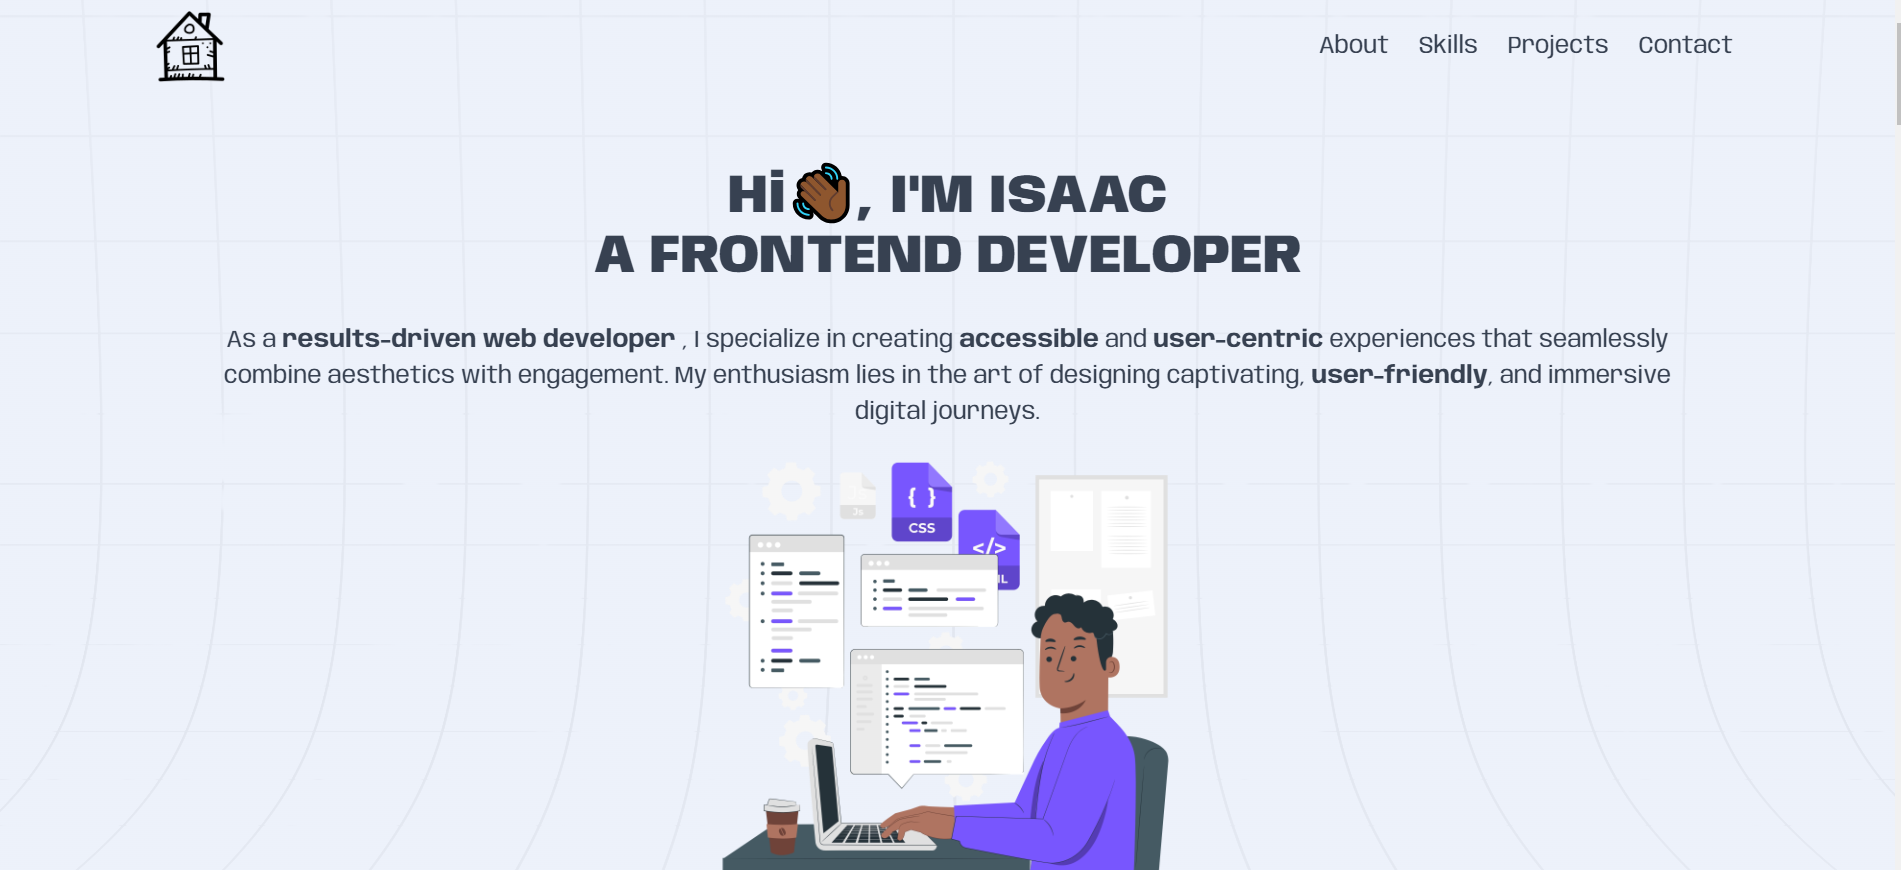
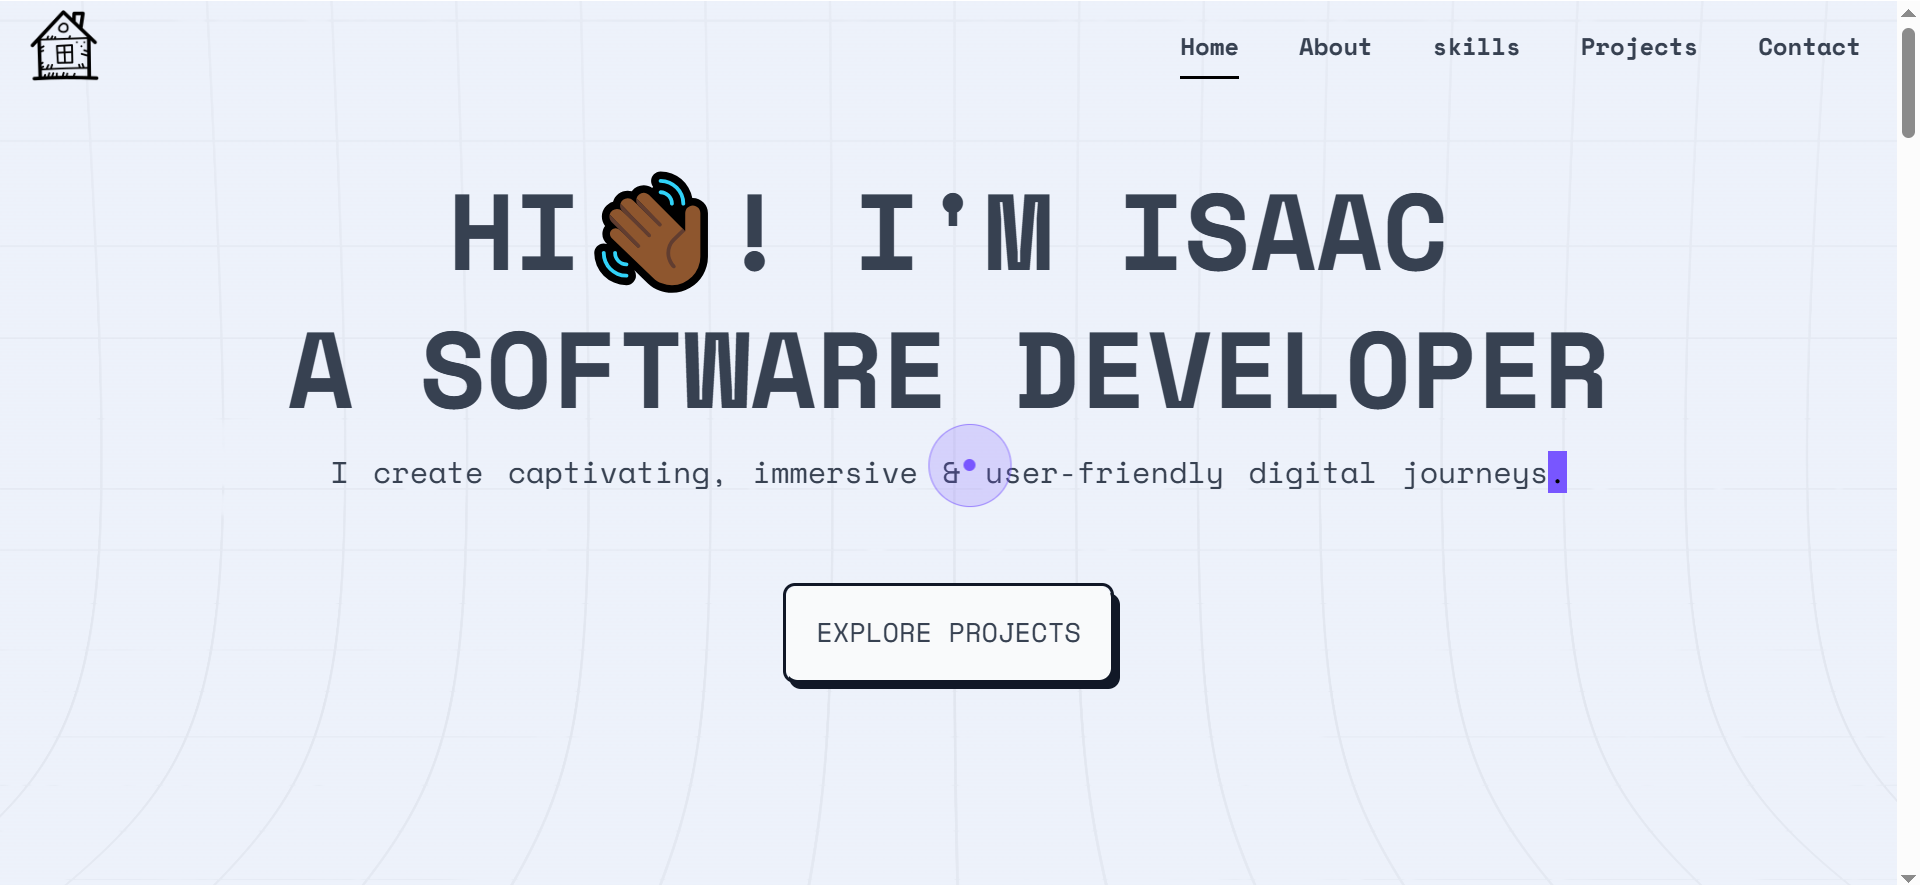
updatea

diff --git a/app/components/Navbar.jsx b/app/components/Navbar.jsx
@@ -6,7 +6,7 @@ import dark from "/public/dark.png";
 import menu from "/public/menu.png";
 import close from "/public/close.png";
 import { Dialog, Transition } from "@headlessui/react";
-import { Fragment, useState } from "react";
+import { Fragment, useEffect, useState } from "react";
 import NavLink from "./NavLink";
 
 export default function Navbar() {
@@ -20,9 +20,29 @@ export default function Navbar() {
     setIsOpen(true);
   }
 
+  const [isScrolled, setIsScrolled] = useState(false);
+
+  // Add scroll event listener
+  useEffect(() => {
+    const handleScroll = () => {
+      if (window.scrollY > 50) {
+        setIsScrolled(true);
+      } else {
+        setIsScrolled(false);
+      }
+    };
+
+    window.addEventListener("scroll", handleScroll);
+    return () => window.removeEventListener("scroll", handleScroll);
+  }, []);
+
   return (
-    <nav>
-      <div>
+    <nav
+      className={`sticky top-0 z-50 transition-all duration-300 flex justify-between items-center px-6 pb-4 md:px-3 md:pb-2 w-full pt-0 ${
+        isScrolled ? "bg-white/70 backdrop-blur-lg" : "bg-transparent"
+      }`}
+    >
+      <div className="hidden lg:block">
         <Link href="/" className="">
           <Image
             src={home}
@@ -34,91 +54,35 @@ export default function Navbar() {
           />
         </Link>
       </div>
-      <div className="gap-6 items-center px-6 md:px-3 hidden md:flex w-screen md:w-fit justify-between   ">
-        <div className="flex gap-5 items-end justify-end ">
+
+      <div className="lg:gap-6 gap-0 items-center px-0 md:px-3 py-3 flex  justify-between w-full lg:w-fit">
+        <div className="flex gap-5 lg:gap-10 items-center lg:items-end justify-end ">
+          <NavLink className="flex md:flex" href="/">
+            <div className="text-gray-700 text-sm lg:text-base font-normal lg:font-bold">
+              Home
+            </div>
+          </NavLink>
           <NavLink className="flex md:flex" href="/about">
-            <span className="relative z-10 block px-1 md:px-3 py-3 overflow-hidden font-medium leading-tight text-gray-700 transition-colors duration-300 ease-out border-2 border-gray-700 rounded-lg group-hover:text-white">
-              <span className="absolute inset-0 w-full h-full px-5 py-3 rounded-lg bg-gray-50"></span>
-              <span className="absolute left-0 w-48 h-48 -ml-2 transition-all duration-300 origin-top-right -rotate-90 -translate-x-full translate-y-12 bg-primary group-hover:-rotate-180 ease"></span>
-              <span className="relative text-gray-700"> About</span>
-            </span>
-            <span
-              className="absolute bottom-0 right-0 w-full h-12 -mb-1 -mr-1 transition-all duration-200 ease-linear bg-gray-700 rounded-lg group-hover:mb-0 group-hover:mr-0"
-              data-rounded="rounded-lg"
-            ></span>
+            <div className="text-gray-700 text-sm lg:text-base font-normal lg:font-bold">
+              About
+            </div>
           </NavLink>
           <NavLink className=" md:flex" href="/#skills">
-            <span className="relative z-10 block px-1 md:px-3 py-3 overflow-hidden font-medium leading-tight text-gray-700 transition-colors duration-300 ease-out border-2 border-gray-700 rounded-lg group-hover:text-white">
-              <span className="absolute inset-0 w-full h-full px-5 py-3 rounded-lg bg-gray-50"></span>
-              <span className="absolute left-0 w-48 h-48 -ml-2 transition-all duration-300 origin-top-right -rotate-90 -translate-x-full translate-y-12 bg-primary group-hover:-rotate-180 ease"></span>
-              <span className="relative text-gray-700"> Skills</span>
-            </span>
-            <span
-              className="absolute bottom-0 right-0 w-full h-12 -mb-1 -mr-1 transition-all duration-200 ease-linear bg-gray-700 rounded-lg group-hover:mb-0 group-hover:mr-0"
-              data-rounded="rounded-lg"
-            ></span>
+            <div className="text-gray-700 text-sm lg:text-base font-normal lg:font-bold">
+              skills
+            </div>
           </NavLink>
           <NavLink className=" md:flex" href="/#projects">
-            <span className="relative z-10 block  px-1 md:px-3 py-3 overflow-hidden font-medium leading-tight text-gray-700 transition-colors duration-300 ease-out border-2 border-gray-700 rounded-lg group-hover:text-white">
-              <span className="absolute inset-0 w-full h-full px-5 py-3 rounded-lg bg-gray-50"></span>
-              <span className="absolute left-0 w-48 h-48 -ml-2 transition-all duration-300 origin-top-right -rotate-90 -translate-x-full translate-y-12 bg-primary group-hover:-rotate-180 ease"></span>
-              <span className="relative text-gray-700"> Projects</span>
-            </span>
-            <span
-              className="absolute bottom-0 right-0 w-full h-12 -mb-1 -mr-1 transition-all duration-200 ease-linear bg-gray-700 rounded-lg group-hover:mb-0 group-hover:mr-0"
-              data-rounded="rounded-lg"
-            ></span>
+            <div className="text-gray-700 text-sm lg:text-base font-normal lg:font-bold">
+              Projects
+            </div>
           </NavLink>
           <NavLink className=" md:flex" href="/#contact">
-            <span className="relative z-10 block  px-1 md:px-3 py-3 overflow-hidden font-medium leading-tight text-gray-700 transition-colors duration-300 ease-out border-2 border-gray-700 rounded-lg group-hover:text-white">
-              <span className="absolute inset-0 w-full h-full px-5 py-3 rounded-lg bg-gray-50"></span>
-              <span className="absolute left-0 w-48 h-48 -ml-2 transition-all duration-300 origin-top-right -rotate-90 -translate-x-full translate-y-12 bg-primary group-hover:-rotate-180 ease"></span>
-              <span className="relative text-gray-700"> Contact</span>
-            </span>
-            <span
-              className="absolute bottom-0 right-0 w-full h-12 -mb-1 -mr-1 transition-all duration-200 ease-linear bg-gray-700 rounded-lg group-hover:mb-0 group-hover:mr-0"
-              data-rounded="rounded-lg"
-            ></span>
+            <div className="text-gray-700 text-sm lg:text-base font-normal lg:font-bold">
+              Contact
+            </div>
           </NavLink>
         </div>
-
-        {/* <div>
-          <Image
-            src={dark}
-            alt="dark mode"
-            width={30}
-            height={30}
-            quality={100}
-            style={{ cursor: 'pointer' }}
-          />
-        </div> */}
-      </div>
-      <div className="gap-6 items-center px-6 md:px-3 flex  justify-between md:hidden   ">
-        <div className="flex gap-5 items-end justify-end ">
-          <NavLink className="flex md:flex" href="/about">
-            <div className="text-gray-700 font-normal">About</div>
-          </NavLink>
-          <NavLink className=" md:flex" href="/#skills">
-            <div className="text-gray-700 font-normal">skills</div>
-          </NavLink>
-          <NavLink className=" md:flex" href="/#projects">
-            <div className="text-gray-700 font-normal">Projects</div>
-          </NavLink>
-          <NavLink className=" md:flex" href="/#contact">
-            <div className="text-gray-700 font-normal">Contact</div>
-          </NavLink>
-        </div>
-
-        {/* <div>
-          <Image
-            src={dark}
-            alt="dark mode"
-            width={30}
-            height={30}
-            quality={100}
-            style={{ cursor: 'pointer' }}
-          />
-        </div> */}
       </div>
     </nav>
   );

diff --git a/app/components/Projects.jsx b/app/components/Projects.jsx
@@ -3,11 +3,8 @@ import React, { useEffect, useState, Fragment } from "react";
 import adresstracker from "/public/adresstracker.png";
 import moviebox from "/public/moviebox2.gif";
 import taskwise from "/public/Taskwise.gif";
-import carddetails from "/public/carddetails.png";
-import advicegenerator from "/public/advicegenerator.png";
 import expressline from "/public/expressline.gif";
 import ideafundrsc from "/public/ideafundrsc.gif";
-import portfolio from "/public/portfolio.gif";
 import wristy from "/public/wristy.gif";
 import forward from "/public/forward.gif";
 import back from "/public/back.png";
@@ -116,36 +113,6 @@ export default function Projects() {
       details: "Get live info of any IP Address.",
       skills: ["React", "Styled-Components", "Geo-location", "JavaScript"],
     },
-    // {
-    //   name: "Portfolio",
-    //   link: "https://isaacanyim-iota.vercel.app/",
-    //   github: "https://github.com/CreatorLZ/Portfolio",
-    //   description: "My portfolio website. slick , fast and beautiful",
-    //   image: portfolio,
-    //   details: "This is the real whats up",
-    //   skills: ["Next.js", "Tailwind", "Framer", "JavaScript"],
-    // },
-    // {
-    //   name: "Advice Generator",
-    //   link: "https://advice-generator-nine-beta.vercel.app/",
-    //   github: "https://github.com/CreatorLZ/advice-generator",
-    //   description:
-    //     "An app that generates freindly, hilarious, simple, complex, whatever... just name it, advice snippets to brighten your day!.",
-    //   image: advicegenerator,
-    //   details: "Get random advice.",
-    //   skills: ["React", "Adviceslip API", "Styled-components", "JavaScript"],
-    // },
-    // {
-    //   name: "Card Details",
-    //   link: "https://interactive-form-eight.vercel.app/",
-    //   github: "https://github.com/CreatorLZ/Interactive_form",
-    //   description:
-    //     "This Case study demonstrates a modern implementation of a user-centric interface for recording card details for online transactions.",
-    //   image: carddetails,
-    //   details:
-    //     "A modern way of recording customers card details for online payment.",
-    //   skills: ["React", "Styled-components", "JavaScript"],
-    // },
   ];
 
   const handleClick = (index) => {

diff --git a/app/components/Skills.jsx b/app/components/Skills.jsx
@@ -74,16 +74,16 @@ export default function Skills() {
             key={index}
             className="relative w-full md:w-72 h-48 border border-gray-400 items-center justify-center flex flex-col text-center "
           >
-            <div className="absolute top-0 left-0 flex items-center justify-center w-6 h-6 text-black ml-[-12px] mt-[-15px] text-5xl font-light">
+            <div className="absolute top-0 left-0 flex items-center justify-center w-6 h-6 text-black ml-[-12px] mt-[-13px] text-2xl font-light">
               +
             </div>
-            <div className="absolute top-0 right-0 flex items-center justify-center w-6 h-6 text-black mr-[-13px] mt-[-15px] text-5xl font-light">
+            <div className="absolute top-0 right-0 flex items-center justify-center w-6 h-6 text-black mr-[-13px] mt-[-13px] text-2xl font-light">
               +
             </div>
-            <div className="absolute bottom-0 left-0 flex items-center justify-center w-6 h-6 text-black ml-[-11px] mb-[-10px] text-5xl font-light">
+            <div className="absolute bottom-0 left-0 flex items-center justify-center w-6 h-6 text-black ml-[-11px] mb-[-10px] text-2xl font-light">
               +
             </div>
-            <div className="absolute bottom-0 right-0 flex items-center justify-center w-6 h-6 text-black mr-[-11px] mb-[-10px] text-5xl font-light">
+            <div className="absolute bottom-0 right-0 flex items-center justify-center w-6 h-6 text-black mr-[-11px] mb-[-10px] text-2xl font-light">
               +
             </div>
             <h3 className="font-bold text-3xl ">{skill.name}</h3>

diff --git a/app/layout.jsx b/app/layout.jsx
@@ -1,4 +1,4 @@
-import { Anybody, Inter, Poppins } from "next/font/google";
+import { Anybody, Inter, Poppins, Space_Mono } from "next/font/google";
 import "./globals.css";
 import { Analytics } from "@vercel/analytics/react";
 // Components
@@ -7,6 +7,11 @@ import Footer from "./components/Footer";
 import MouseTracker from "./components/MouseTracker";
 
 const anybody = Anybody({ subsets: ["latin"], variable: "--font-anybody" });
+const spaceMono = Space_Mono({
+  subsets: ["latin"],
+  weight: ["400", "700"],
+  variable: "--font-space-mono",
+});
 
 // Metadata configuration
 export const metadata = {
@@ -94,9 +99,12 @@ export default function RootLayout({ children }) {
         <meta name="twitter:image" content={metadata.twitter.image} />
         <meta name="theme-color" content={themeColor} />
         <meta name="viewport" content="width=device-width, initial-scale=1.0" />
+        {/* Favicon links */}
         <link rel="icon" href="/favicon.ico" sizes="any" />
+        <link rel="icon" href="/icon.png" type="image/png" sizes="32x32" />
+        <link rel="apple-touch-icon" href="/apple-icon.png" />
       </head>
-      <body className={anybody.className}>
+      <body className={spaceMono.className}>
         <Navbar />
         {children}
         <MouseTracker />

diff --git a/app/components/Hero.jsx b/app/components/Hero.jsx
@@ -81,19 +81,19 @@ export default function Hero() {
         whileInView="visible"
         viewport={{ once: true, amount: 0 }}
         variants={containerVariants2}
-        style={{ height: "75vh" }}
-        className=" flex flex-col items-center justify-center md:justify-center lg:justify-normal  "
+        // style={{ height: "75vh" }}
+        className=" flex flex-col items-center justify-center md:justify-center lg:justify-normal lg:pt-12 h-[75vh] lg:[100vh] lg:gap-5 "
       >
         <motion.h1
           variants={itemVariants2}
-          className="text-gray-700 text-3xl md:text-6xl tracking-normal  pb-0  font-black"
+          className="text-gray-700 text-3xl md:text-7xl tracking-normal font-extrabold  pb-0"
         >
           HI👋🏾{"!"} I{"'"}M ISAAC
           <br />
         </motion.h1>
         <motion.h1
           variants={itemVariants3}
-          className="text-gray-700 text-3xl md:text-6xl tracking-normal  pb-0  font-black"
+          className="text-gray-700 text-3xl md:text-7xl tracking-normal  pb-0  font-extrabold"
         >
           A SOFTWARE DEVELOPER
         </motion.h1>

diff --git a/app/about/page.jsx b/app/about/page.jsx
@@ -148,7 +148,7 @@ export default function About() {
         {/* second section end */}
       </div>
       <div className="pt-20">
-        <AnimatedText className="text-sm leading-loose md:text-base">
+        <p className="text-sm leading-loose md:text-base">
           Websites that shine go beyond just looking good. They also work
           flawlessly and are a breeze to navigate. That is where I come in.
           Through my experience as a freelancer and from personal projects, I
@@ -156,7 +156,7 @@ export default function About() {
           designing websites that are both beautiful and user-friendly. I stay
           on top of the latest software development trends to ensure every
           aspect of your website is optimized for a smooth user experience.
-        </AnimatedText>
+        </p>
       </div>
       <Socials />
       <Contact id="contact" />

diff --git a/app/components/MouseTracker.jsx b/app/components/MouseTracker.jsx
@@ -8,6 +8,11 @@ const MouseTracker = () => {
   const [isHoveringLink, setIsHoveringLink] = useState(false);
 
   useEffect(() => {
+    // Set initial position to center of page
+    const centerX = window.innerWidth / 2;
+    const centerY = window.innerHeight / 2;
+    setPosition({ x: centerX, y: centerY });
+
     const handleMouseMove = (e) => {
       setPosition({ x: e.clientX, y: e.clientY });
     };

diff --git a/app/components/AnimatedText.jsx b/app/components/AnimatedText.jsx
@@ -31,7 +31,7 @@ export const AnimatedText = ({ children, className = "" }) => {
       const timer = setTimeout(() => {
         setDisplayedText((prev) => prev + text[currentIndex]);
         setCurrentIndex((prev) => prev + 1);
-      }, 40);
+      }, 20);
 
       return () => clearTimeout(timer);
     }
